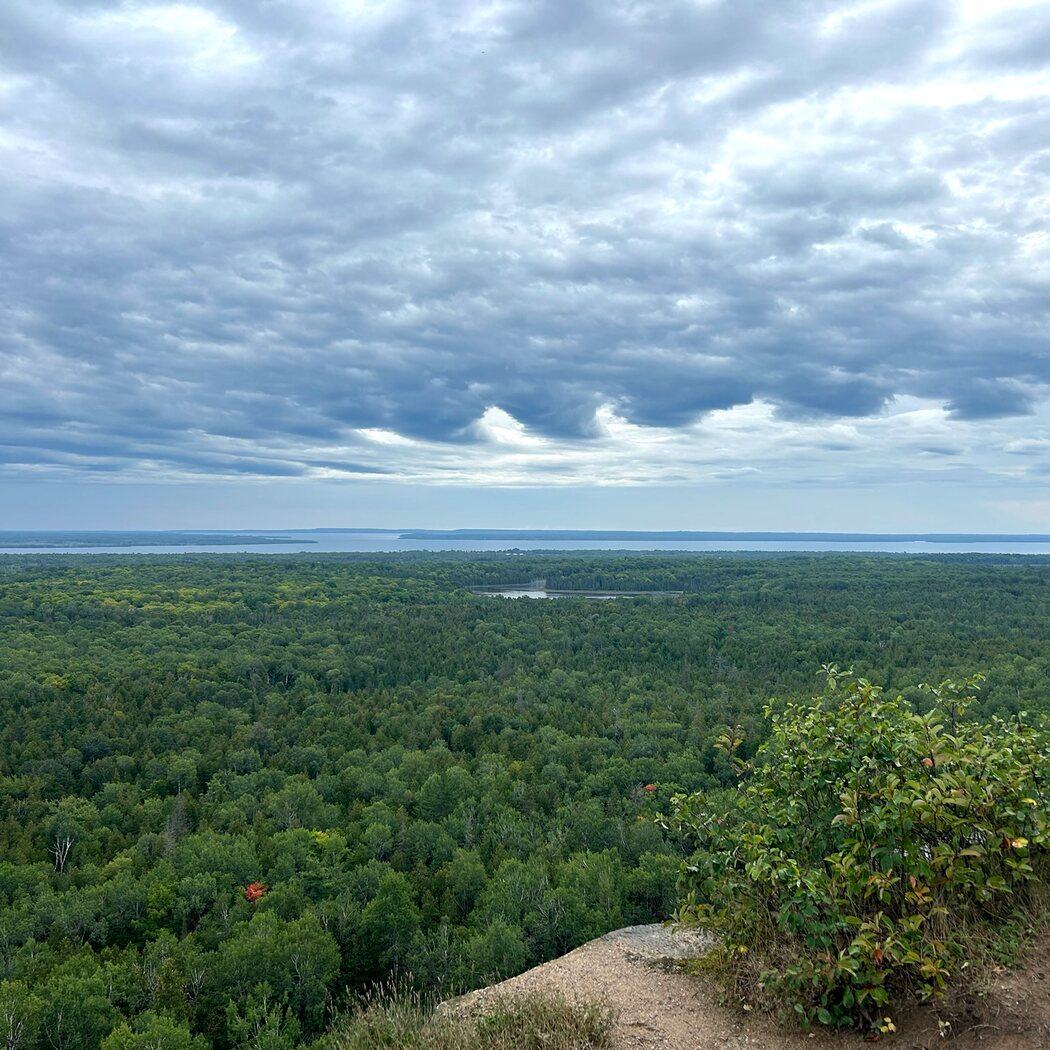
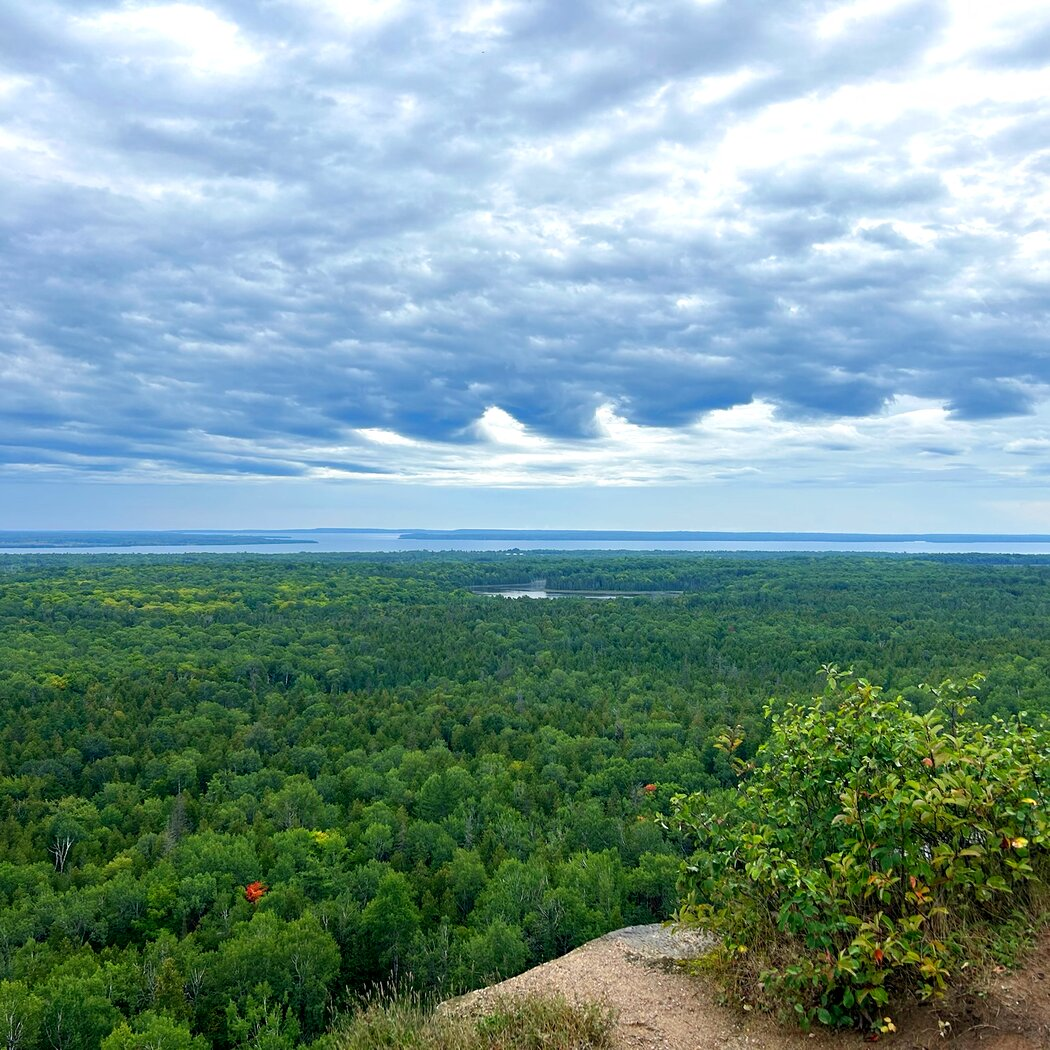
Real colour, and the genre is emotional dance music, not trance/speed garage
The last colour pass barely moved saturation (-modulate was never in it), so
overcast Newfoundland/Manitoulin photos still read as basically grey. This
pass actually pushes saturation and it shows: green forest, blue sky, red
accents. download.jpg's cache-busting query had also never been bumped across
two prior content changes, so it was worth checking, not just trusting the
version number in the URL.

Chris: "i dont make trance and speed garage. i make emotional dance music."
Every place that describes the sound as a genre now says emotional dance
music - hero tagline, meta descriptions, the About paragraph, links tagline,
and the pre-release email draft. "baianà (speed garage edit)" is untouched:
that is the actual name of the track, not a genre claim.

diff --git a/index.html b/index.html
@@ -4,11 +4,11 @@
 <meta charset="utf-8">
 <meta name="viewport" content="width=device-width, initial-scale=1">
 <title>Finnian</title>
-<meta name="description" content="finnian. trance and speed garage out of toronto, far away but familiar. first single you got me, out 1 october.">
+<meta name="description" content="finnian. emotional dance music out of toronto, far away but familiar. first single you got me, out 1 october.">
 <link rel="canonical" href="https://finnian.ca/">
 <meta property="og:type" content="website">
 <meta property="og:title" content="Finnian">
-<meta property="og:description" content="trance and speed garage out of toronto, far away but familiar. first single you got me, out 1 october.">
+<meta property="og:description" content="emotional dance music out of toronto, far away but familiar. first single you got me, out 1 october.">
 <meta property="og:url" content="https://finnian.ca/">
 <meta property="og:image" content="https://finnian.ca/assets/og.jpg?v=1">
 <meta name="twitter:card" content="summary_large_image">
@@ -16,7 +16,7 @@
 <link rel="preconnect" href="https://fonts.googleapis.com">
 <link rel="preconnect" href="https://fonts.gstatic.com" crossorigin>
 <link href="https://fonts.googleapis.com/css2?family=Inter:wght@400;700&family=Space+Mono:wght@400&display=swap" rel="stylesheet">
-<link rel="stylesheet" href="/assets/style.css?v=28">
+<link rel="stylesheet" href="/assets/style.css?v=29">
 </head>
 <body>
 
@@ -50,7 +50,7 @@
   <div class="hero__copy">
     <p class="eyebrow"><b>Toronto</b></p>
     <h1 class="display wordmark">finnian<span class="star">*<svg class="hero__ring" viewBox="0 0 200 200" aria-hidden="true"><use href="#ring"/></svg></span></h1>
-    <p class="typed">trance and speed garage. for the sunrise after, the road trip home, and losing yourself on the floor.</p>
+    <p class="typed">emotional dance music. for the sunrise after, the road trip home, and losing yourself on the floor.</p>
     <div class="hero__actions">
       <a class="btn btn--solid" href="#release">You Got Me, 1 Oct</a>
       <a class="btn" href="#list">Join the list</a>
@@ -97,7 +97,7 @@
         <p class="eyebrow"><b>03</b> &nbsp;About</p>
         <h2 class="display display--stop">About</h2>
         <div class="prose" style="margin-top: var(--s4)">
-          <p>finnian makes trance and speed garage in toronto: music that feels far away but familiar, for the moments that feel like a chapter beginning. the sunrise after the rave. the road trip with everyone singing. closing your eyes on the floor and going somewhere else.</p>
+          <p>finnian makes emotional dance music in toronto: music that feels far away but familiar, for the moments that feel like a chapter beginning. the sunrise after the rave. the road trip with everyone singing. closing your eyes on the floor and going somewhere else.</p>
           <p>you got me, out 1 october, is the first single. new music lands here first.</p>
         </div>
       </div>
@@ -107,7 +107,7 @@
   <section class="band download" id="list" data-tone="paper">
     <div class="band__inner wrap cols">
       <figure class="portrait">
-        <img src="/assets/download.jpg?v=1" alt="" width="1050" height="1050" decoding="async">
+        <img src="/assets/download.jpg?v=2" alt="" width="1050" height="1050" decoding="async">
       </figure>
       <div>
         <p class="eyebrow"><b>04</b> &nbsp;Free download</p>

diff --git a/links/index.html b/links/index.html
@@ -14,7 +14,7 @@
 <link rel="preconnect" href="https://fonts.googleapis.com">
 <link rel="preconnect" href="https://fonts.gstatic.com" crossorigin>
 <link href="https://fonts.googleapis.com/css2?family=Inter:wght@400;700&family=Space+Mono:wght@400&display=swap" rel="stylesheet">
-<link rel="stylesheet" href="/assets/style.css?v=28">
+<link rel="stylesheet" href="/assets/style.css?v=29">
 </head>
 <body>
 
@@ -24,7 +24,7 @@
       <div class="avatar" role="presentation"></div>
     </div>
     <h1 class="display wordmark">finnian<span class="star">*</span></h1>
-    <p class="typed">trance and speed garage. for the sunrise after, the road trip home, and losing yourself on the floor.</p>
+    <p class="typed">emotional dance music. for the sunrise after, the road trip home, and losing yourself on the floor.</p>
 
     <div class="stack">
       <!-- No pre-save link until DistroKid delivers. Swap this for it when it exists. -->

diff --git a/assets/style.css b/assets/style.css
@@ -192,7 +192,7 @@ h2.display { font-size: clamp(2.75rem, 7vw, 5.5rem); }
 .hero__plate {
   position: relative;
   min-height: 62svh;
-  background: #cfcfd3 url("hero.jpg?v=6") center 42% / cover no-repeat;
+  background: #cfcfd3 url("hero.jpg?v=7") center 42% / cover no-repeat;
   border-right: 1px solid var(--black);
 }
 
@@ -357,7 +357,7 @@ h2.display { font-size: clamp(2.75rem, 7vw, 5.5rem); }
   position: relative;
   margin: 0 0 var(--s5);
   border: 1px solid var(--black);
-  background: #cfcfd3 url("tile.jpg?v=4") center / cover no-repeat;
+  background: #cfcfd3 url("tile.jpg?v=5") center / cover no-repeat;
   aspect-ratio: 4 / 3;
 }
 .links-page .avatar {
